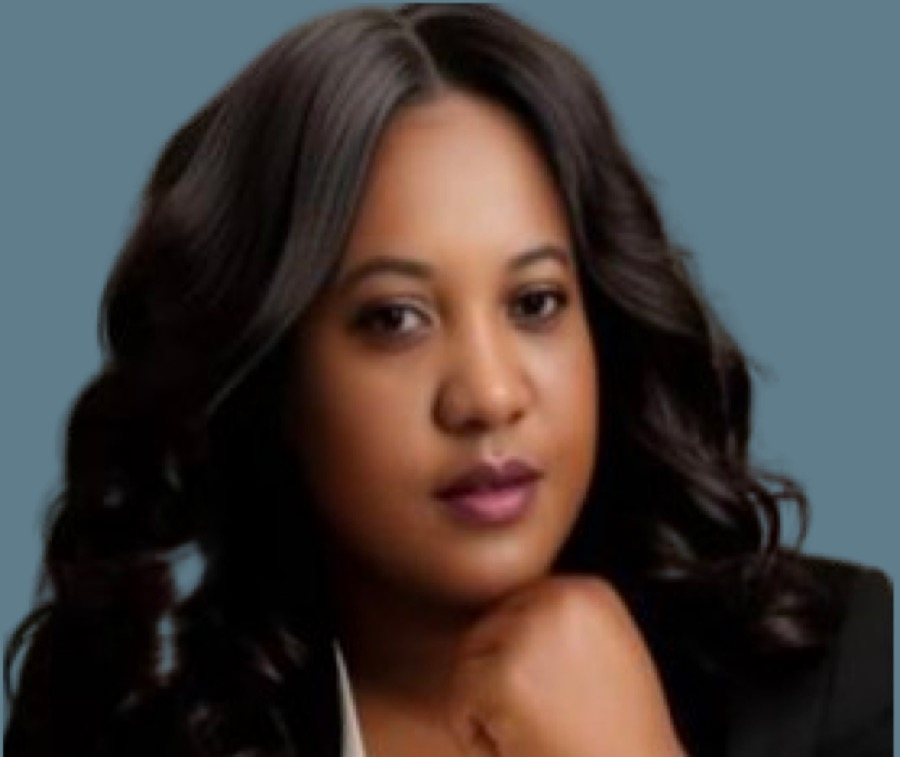
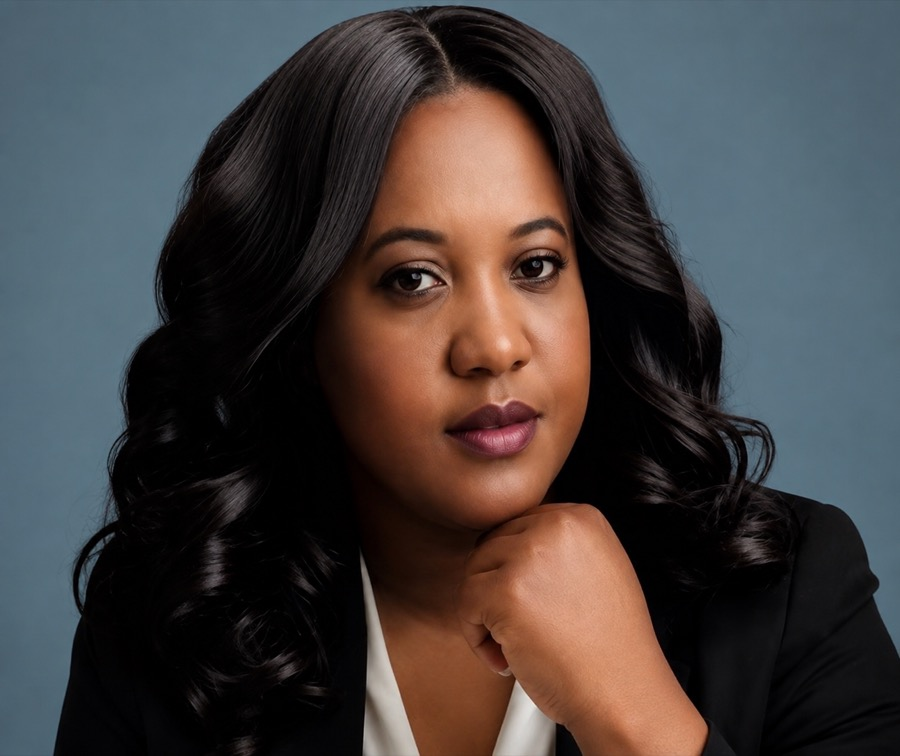
Refactor Navbar component and update team content
- Simplified Navbar component by removing scroll hide logic and improving responsiveness.
- Updated team member details, including new roles and LinkedIn profiles.
- Adjusted image references and added a new team member while ensuring consistency in naming conventions.
- Made minor CSS adjustments to enhance layout and visibility across components.

diff --git a/src/components/Navbar.tsx b/src/components/Navbar.tsx
@@ -1,47 +1,32 @@
-import { useEffect, useRef, useState } from 'react'
+import { useEffect, useState } from 'react'
 import { HugeiconsIcon } from '@hugeicons/react'
 import { Menu01Icon, Cancel01Icon } from '@hugeicons/core-free-icons'
 import { AnimatePresence, motion } from 'motion/react'
 import { navGroups, siteBrand } from '@/data/content'
 import { springSnappy } from './Motion'
 
-const SCROLL_HIDE_THRESHOLD = 100
-
 export default function Navbar() {
-  const [hidden, setHidden] = useState(false)
   const [overHero, setOverHero] = useState(true)
   const [menuOpen, setMenuOpen] = useState(false)
-  const lastScrollY = useRef(0)
 
   useEffect(() => {
     const onScroll = () => {
-      if (menuOpen) return
-
-      const currentY = window.scrollY
-      const scrollingDown = currentY > lastScrollY.current
-      const scrollingUp = currentY < lastScrollY.current
-
-      if (currentY <= SCROLL_HIDE_THRESHOLD) {
-        setHidden(false)
-      } else if (scrollingDown && currentY > SCROLL_HIDE_THRESHOLD) {
-        setHidden(true)
-      } else if (scrollingUp) {
-        setHidden(false)
-      }
-
-      setOverHero(currentY < window.innerHeight * 0.85)
-      lastScrollY.current = currentY
+      setOverHero(window.scrollY < window.innerHeight * 0.85)
     }
 
     onScroll()
     window.addEventListener('scroll', onScroll, { passive: true })
     return () => window.removeEventListener('scroll', onScroll)
-  }, [menuOpen])
+  }, [])
 
   useEffect(() => {
     document.body.style.overflow = menuOpen ? 'hidden' : ''
+    const lenis = (window as Window & { __lenis?: { stop: () => void; start: () => void } }).__lenis
+    if (menuOpen) lenis?.stop()
+    else lenis?.start()
     return () => {
       document.body.style.overflow = ''
+      lenis?.start()
     }
   }, [menuOpen])
 
@@ -58,7 +43,7 @@ export default function Navbar() {
   return (
     <>
       <motion.header
-        className={`wf-nav-header${hidden && !menuOpen ? ' is-hidden' : ''}`}
+        className="wf-nav-header"
         initial={{ y: -72, opacity: 0 }}
         animate={{ y: 0, opacity: 1 }}
         transition={springSnappy}
@@ -97,53 +82,51 @@ export default function Navbar() {
 
       <AnimatePresence>
         {menuOpen ? (
-          <>
-            <motion.aside
-              id="site-mega-menu"
-              className="wf-mega-panel"
-              role="dialog"
-              aria-modal="true"
-              aria-label="Site navigation"
-              initial={{ opacity: 0, y: 12 }}
-              animate={{ opacity: 1, y: 0 }}
-              exit={{ opacity: 0, y: 12 }}
-              transition={{ duration: 0.28, ease: [0.22, 1, 0.36, 1] }}
-            >
-              <div className="wf-mega-panel-head">
-                <img src={siteBrand.logo} alt="" className="wf-mega-panel-logo" />
-                <div className="wf-mega-panel-head-actions">
-                  <button type="button" className="wf-mega-close" onClick={closeMenu} aria-label="Close menu">
-                    <HugeiconsIcon icon={Cancel01Icon} size={22} strokeWidth={2} />
-                  </button>
+          <motion.aside
+            id="site-mega-menu"
+            className="wf-mega-panel"
+            role="dialog"
+            aria-modal="true"
+            aria-label="Site navigation"
+            initial={{ opacity: 0, y: 12 }}
+            animate={{ opacity: 1, y: 0 }}
+            exit={{ opacity: 0, y: 12 }}
+            transition={{ duration: 0.28, ease: [0.22, 1, 0.36, 1] }}
+          >
+            <div className="wf-mega-panel-head">
+              <img src={siteBrand.logo} alt="" className="wf-mega-panel-logo" />
+              <div className="wf-mega-panel-head-actions">
+                <button type="button" className="wf-mega-close" onClick={closeMenu} aria-label="Close menu">
+                  <HugeiconsIcon icon={Cancel01Icon} size={22} strokeWidth={2} />
+                </button>
+              </div>
+            </div>
+
+            <div className="wf-mega-panel-body">
+              {navGroups.map((group) => (
+                <div key={group.label} className="wf-mega-group">
+                  <a href={group.href} className="wf-mega-group-title" onClick={closeMenu}>
+                    {group.label}
+                  </a>
+                  <ul className="wf-mega-group-links">
+                    {group.children.map((child) => (
+                      <li key={child.label}>
+                        <a href={child.href} className="wf-mega-link" onClick={closeMenu}>
+                          {child.label}
+                        </a>
+                      </li>
+                    ))}
+                  </ul>
                 </div>
-              </div>
+              ))}
+            </div>
 
-              <div className="wf-mega-panel-body">
-                {navGroups.map((group) => (
-                  <div key={group.label} className="wf-mega-group">
-                    <a href={group.href} className="wf-mega-group-title" onClick={closeMenu}>
-                      {group.label}
-                    </a>
-                    <ul className="wf-mega-group-links">
-                      {group.children.map((child) => (
-                        <li key={child.label}>
-                          <a href={child.href} className="wf-mega-link" onClick={closeMenu}>
-                            {child.label}
-                          </a>
-                        </li>
-                      ))}
-                    </ul>
-                  </div>
-                ))}
-              </div>
-
-              <div className="wf-mega-panel-foot">
-                <a href={`mailto:${siteBrand.email}`} className="wf-mega-email" onClick={closeMenu}>
-                  {siteBrand.email}
-                </a>
-              </div>
-            </motion.aside>
-          </>
+            <div className="wf-mega-panel-foot">
+              <a href={`mailto:${siteBrand.email}`} className="wf-mega-email" onClick={closeMenu}>
+                {siteBrand.email}
+              </a>
+            </div>
+          </motion.aside>
         ) : null}
       </AnimatePresence>
     </>

diff --git a/src/data/content.ts b/src/data/content.ts
@@ -51,8 +51,8 @@ export const heroContent = {
     "Building the trust and bond that unlocks global capital for frontier market alternative strategies.",
   ctaPrimary: { label: "GET IN TOUCH", href: "#apply" },
   ctaNav: { label: "Apply Now", href: "#apply" },
-  typingText: "Alternative Investments, Advisory, Tech & AI Systems",
-  typingPhrases: ["Alternative Investments", "Advisory", "Tech & AI Systems"],
+  typingText: "Alternative Investments, Advisory, Technology & AI",
+  typingPhrases: ["Alternative Investments", "Advisory", "Technology & AI"],
   scrollLabel: "SCROLL DOWN",
   focusAreas:
     "Climate & Impact | Alternative Investments | AI Systems | M&A Advisory | Executive Training",
@@ -130,7 +130,7 @@ export const navGroups = [
 export const businessLines = {
   advisory: {
     eyebrow: "Advisory",
-    title: "Investment Advisory",
+    title: "Advisory",
     summary: "Trusted advisors across Africa.",
     description:
       "M&A advisory, due diligence, and investment structuring for investors and growing businesses.",
@@ -140,8 +140,8 @@ export const businessLines = {
     imageAlt: "Investment advisory",
   },
   management: {
-    eyebrow: "Management",
-    title: "Investment Management",
+    eyebrow: "Alternative Investments",
+    title: "Alternative Investments",
     summary: "Capital deployed through focused platforms.",
     description:
       "Venture, credit, and impact pathways for gender-inclusive SMEs and high-potential ventures.",
@@ -247,7 +247,7 @@ export interface ServiceDetail {
 }
 
 export const advisoryDetail: ServiceDetail = {
-  eyebrow: "Investment Advisory",
+  eyebrow: "Advisory",
   headline: "Advisory across the investment lifecycle",
   items: [
     {
@@ -284,7 +284,7 @@ export const advisoryDetail: ServiceDetail = {
 };
 
 export const managementDetail: ServiceDetail = {
-  eyebrow: "Investment Management",
+  eyebrow: "Alternative Investments",
   headline: "Alternative investments across our platforms",
   intro:
     "Alternative investments are asset classes that aren’t stocks, bonds, or cash. These kinds of investments differ from traditional investment types because they aren’t easily sold or converted into cash. It’s also common for alternative investments to be referred to as alternative assets. Examples are: hedge funds, art collections or indexes, real estate investments and trusts (REITs), structured products etc.",
@@ -894,16 +894,22 @@ export const teamContent = {
       linkedin: "https://www.linkedin.com/in/stevetawia",
     },
     {
-      name: "Abena Opoku-Acquah",
-      role: "Principal — West Africa",
-      image: "/images/Team/Abena.jpg",
-      linkedin: "https://www.linkedin.com/in/abenaopokuacquah/",
+      name: "Benson Njiru",
+      role: "MD East Africa",
+      image: "/images/Team/Benson.jpg",
+      linkedin: "https://www.linkedin.com/in/benson-njiru-njagi/",
     },
     {
       name: "Freda Egyir",
       role: "Chief of Staff & Project Management",
-      image: "/images/Team/Freda.jpg",
+      image: "/images/Team/Freda.jpg?v=2",
       linkedin: "https://www.linkedin.com/in/freda-egyir-4408161a1/",
+    },
+    {
+      name: "Abena Opoku-Acquah",
+      role: "Principal — West Africa",
+      image: "/images/Team/Abena.jpg",
+      linkedin: "https://www.linkedin.com/in/abenaopokuacquah/",
     },
     {
       name: "Emmanuel Devi",
@@ -928,12 +934,6 @@ export const teamContent = {
       role: "Investment Analyst & Media and Communications",
       image: "/images/Team/Seyram.jpg",
       linkedin: "https://www.linkedin.com/in/seyram-ametepeh/",
-    },
-    {
-      name: "Benson Njiru",
-      role: "MD East Africa",
-      image: "/images/Team/Benson.jpg",
-      linkedin: "https://www.linkedin.com/in/benson-njiru-njagi/",
     },
     {
       name: "Betty Nduku",

diff --git a/src/hooks/useSmoothScroll.ts b/src/hooks/useSmoothScroll.ts
@@ -17,6 +17,8 @@ export function useSmoothScroll() {
       syncTouch: false,
     })
 
+    ;(window as Window & { __lenis?: Lenis }).__lenis = lenis
+
     let rafId = requestAnimationFrame(function raf(time: number) {
       lenis.raf(time)
       rafId = requestAnimationFrame(raf)
@@ -42,6 +44,8 @@ export function useSmoothScroll() {
     return () => {
       document.removeEventListener('click', handleAnchorClick)
       cancelAnimationFrame(rafId)
+      const win = window as Window & { __lenis?: Lenis }
+      if (win.__lenis === lenis) delete win.__lenis
       lenis.destroy()
     }
   }, [])

diff --git a/src/styles/custom.css b/src/styles/custom.css
@@ -161,14 +161,13 @@ a { text-decoration: none; color: inherit; }
   top: 0;
   left: 0;
   right: 0;
-  z-index: 1000;
+  z-index: 1200;
   transition: transform 0.4s var(--ease-smooth);
-  will-change: transform;
 }
 
 .wf-nav-header.is-hidden {
-  transform: translateY(-100%);
-  pointer-events: none;
+  transform: none;
+  pointer-events: auto;
 }
 
 .wf-nav {
@@ -3708,7 +3707,7 @@ a { text-decoration: none; color: inherit; }
   flex-direction: column;
   min-height: 100%;
   background: #fff;
-  border: 1px solid rgba(0, 0, 0, 0.08);
+  border: none;
   border-radius: 3px;
   overflow: hidden;
 }

diff --git a/src/styles/refine.css b/src/styles/refine.css
@@ -293,7 +293,7 @@
 
 /* ── Business lines ─────────────────────────────────────────── */
 .wf-lines-panel {
-  border-color: rgba(0, 0, 0, 0.08);
+  border: none;
   background: #fff;
 }
 
